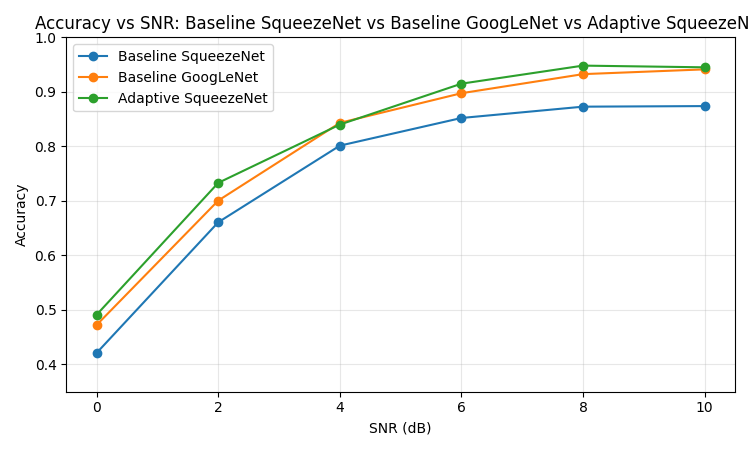
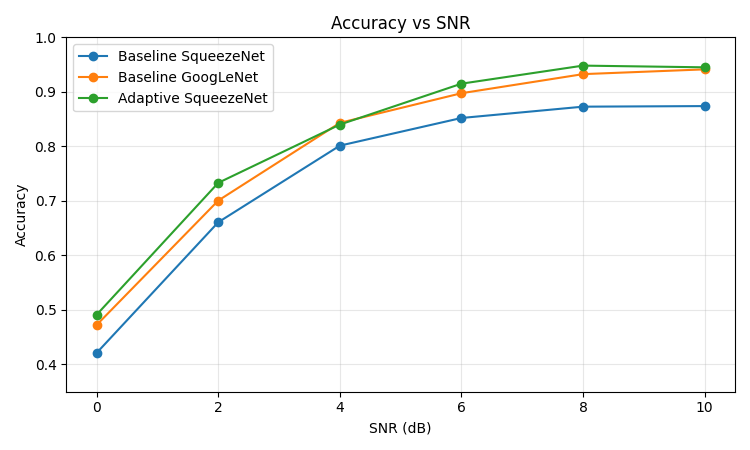
added accuracy comparisons

Changed region(s): [[0.0307, 0.0311, 1.0, 0.0622]]

diff --git a/src/compare_accuracy.py b/src/compare_accuracy.py
@@ -4,8 +4,9 @@ import matplotlib.pyplot as plt
 
 BASELINE_JSON = 'results_local/squeezenet/accuracy_by_snr_squeezenet.json'
 GOOGLENET_JSON = 'results_local/googlenet/accuracy_by_snr.json'
-ADAPTIVE_JSON = 'results_local/adaptive_sampling/adaptive_v1/accuracy_by_snr_squeezenet.json'
-OUT_PATH = 'results_local/compare/accuracy_vs_snr.png'
+ADAPTIVE_V1_JSON = 'results_local/adaptive_sampling/adaptive_v1/accuracy_by_snr_squeezenet.json'
+ADAPTIVE_V2_JSON = 'results_local/adaptive_sampling/adaptive_v2/accuracy_by_snr_squeezenet.json'
+OUT_PATH = 'results_local/compare/accuracy_vs_snr2.png'
 
 os.makedirs(os.path.dirname(OUT_PATH), exist_ok=True)
 
@@ -21,15 +22,17 @@ def load(json_path):
 
 snr_b, acc_b = load(BASELINE_JSON)
 snr_g, acc_g = load(GOOGLENET_JSON)
-snr_a, acc_a = load(ADAPTIVE_JSON)
+snr_a1, acc_a1 = load(ADAPTIVE_V1_JSON)
+snr_a2, acc_a2 = load(ADAPTIVE_V2_JSON)
 
 plt.figure(figsize=(7.5, 4.5))
 plt.plot(snr_b, acc_b, marker='o', label='Baseline SqueezeNet')
 plt.plot(snr_g, acc_g, marker='o', label='Baseline GoogLeNet')
-plt.plot(snr_a, acc_a, marker='o', label='Adaptive SqueezeNet')
+plt.plot(snr_a1, acc_a1, marker='o', label='Adaptive SqueezeNet v1')
+plt.plot(snr_a2, acc_a2, marker='o', label='Adaptive SqueezeNet v2')
 plt.xlabel('SNR (dB)')
 plt.ylabel('Accuracy')
-plt.title('Accuracy vs SNR: Baseline SqueezeNet vs Baseline GoogLeNet vs Adaptive SqueezeNet')
+plt.title('Accuracy vs SNR')
 plt.grid(alpha=0.3)
 plt.ylim(0.35, 1.0)
 plt.legend()
